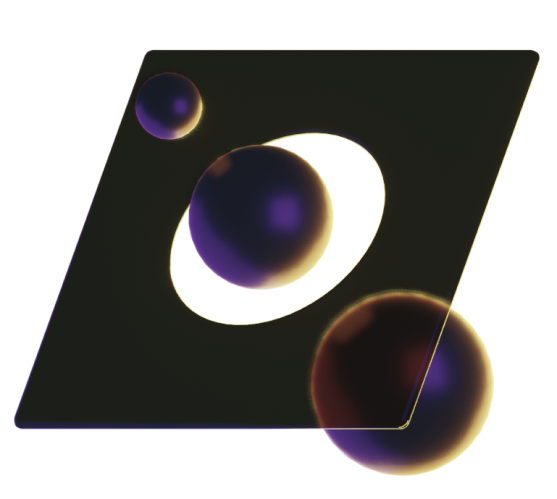
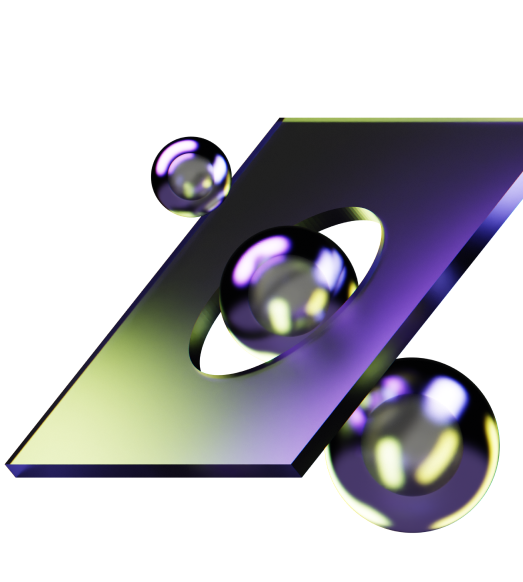
[CHANGE] Assets and all

diff --git a/components/molecules/HeadingDescriptionLinkImgSection.tsx b/components/molecules/HeadingDescriptionLinkImgSection.tsx
@@ -13,15 +13,16 @@ type PropTypes = {
 
 export const HeadingDescriptionLinkImgSection = (props: PropTypes) => {
   return (
-    <article className="relative p-section w-full min-h-screen grid lg:grid-flow-row content-center overflow-x-hidden">
+    <article className="relative p-section w-full min-h-screen flex flex-col lg:flex-row justify-end overflow-x-hidden overflow-y-hidden">
       <img
-        className="z-[1] max-w-none w-screen lg:z-auto h-auto lg:w-[60%] -mx-8 lg:m-0 lg:absolute lg:top-[50%] lg:right-0 lg:-translate-y-[50%]"
+        className="z-[1] max-w-none w-screen lg:z-auto h-auto lg:w-[55%] lg:m-0 lg:absolute lg:top-0 lg:left-24"
         src={props.image}
         alt="NF10X image"
       />
-      <div className="z-[1] relative grid grid-flow-row-dense content-center gap-8 w-full lg:w-[90%] xl:w-[60%] 2xl:w-[50%]">
+      <div className="z-[1] relative grid grid-flow-row-dense content-center gap-8 w-full lg:w-[90%] xl:w-[60%] 2xl:w-[50%] lg:mt-64">
+        <div className="p-1 h-96 w-96 bg-primary-1 blur-3xl -top-7 -left-24 absolute rounded-full"></div>
         <H1 className="max-w-lg">{props.heading}</H1>
-        <p className="font-mono text-primary-light leading-8 text-lg">
+        <p className="z-[1] font-mono text-primary-light leading-8 text-lg">
           {props.description}
         </p>
         <A

diff --git a/components/molecules/TitleDescriptionComparisonSection.tsx b/components/molecules/TitleDescriptionComparisonSection.tsx
@@ -56,7 +56,7 @@ export const TitleDescriptionComparisonSection = (props: PropType) => {
 
       <div
         ref={customCursorRef}
-        className="absolute transition-all bg-secondary-2 opacity-40 h-60 w-60 rounded-full blur-[170px] animate-levitate-slow"
+        className="absolute transition-all bg-primary-light opacity-40 h-60 w-60 rounded-full blur-[170px] animate-levitate-slow"
       ></div>
 
       {props.title && <H1 className="z-[1] text-center">{props.title}</H1>}

diff --git a/components/molecules/HeadingsLinkBgImageHero.tsx b/components/molecules/HeadingsLinkBgImageHero.tsx
@@ -17,7 +17,7 @@ export const HeadingsLinkBgImageHero = (props: Props) => {
       {props.image && (
         <img
           src={props.image}
-          className="absolute top-0 left-0 w-full h-full object-cover"
+          className="absolute top-0 left-0 w-full h-3/5 md:h-full object-cover"
           alt="NF10X"
         />
       )}

diff --git a/pages/index.tsx b/pages/index.tsx
@@ -51,7 +51,7 @@ const Home: NextPage = (props: any) => {
           heading={section2.heading}
           description={section2.description}
           image={section2.image}
-          bgImage={section2.bgImage}
+          // bgImage={section2.bgImage}
           linkTitle={section2.linkTitle}
           href={section2.href}
         />
